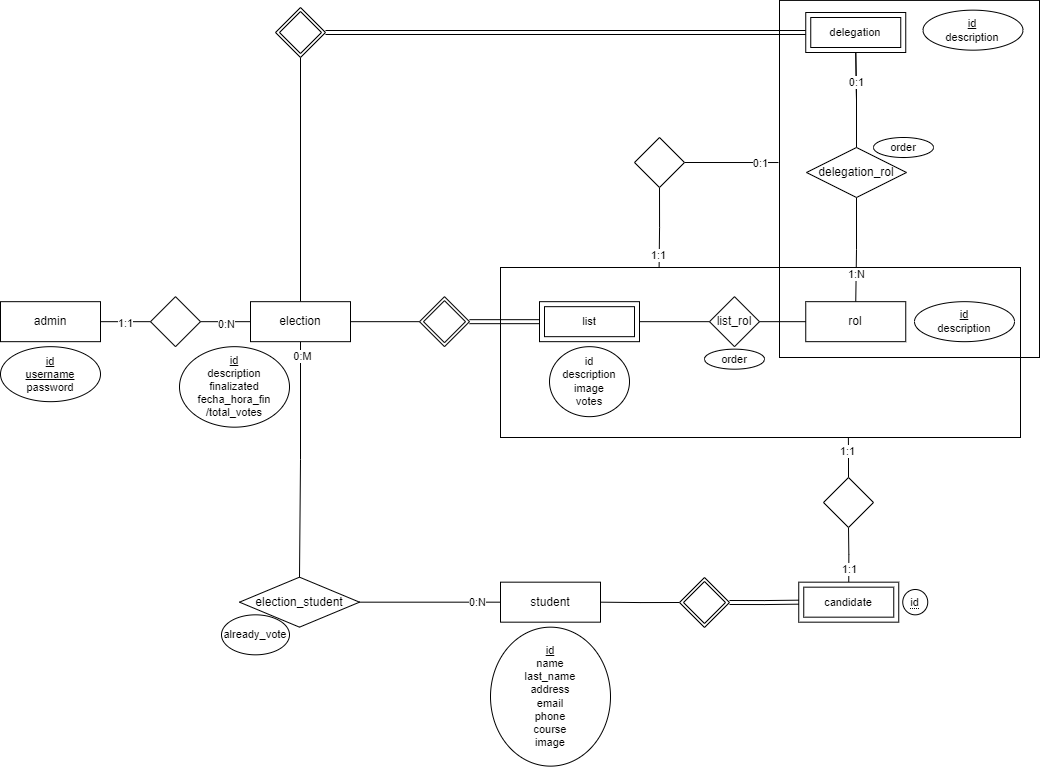
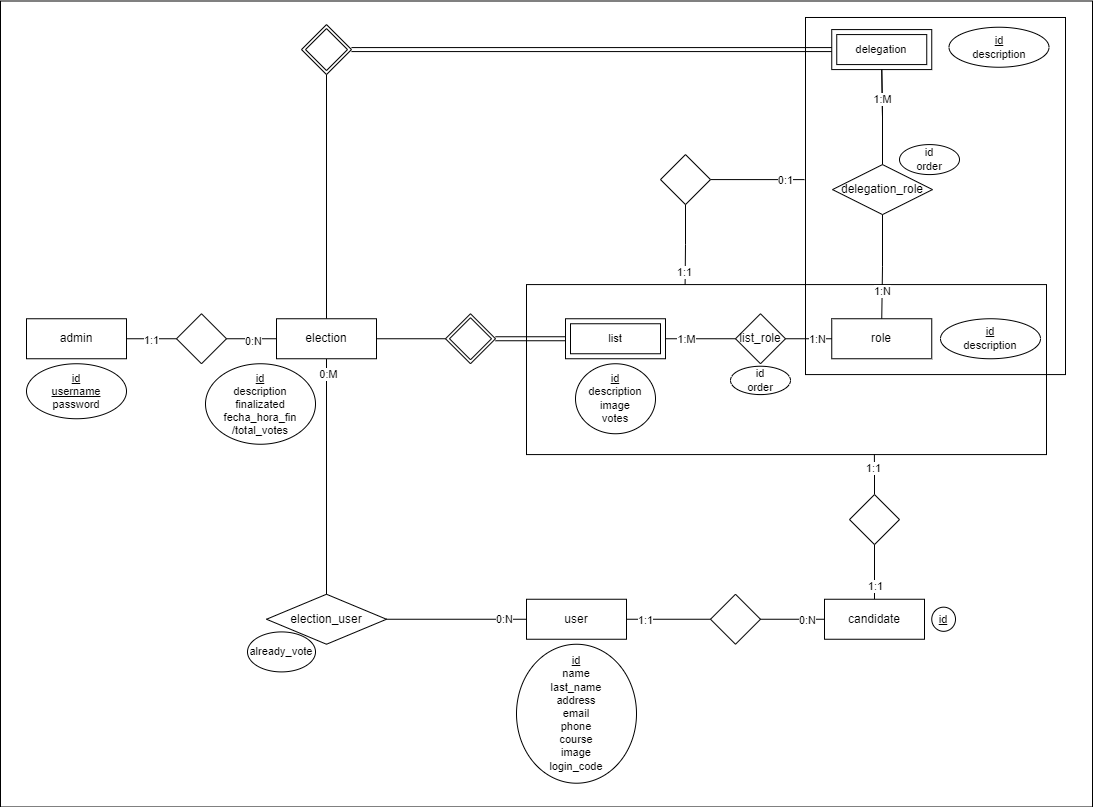
Actualizacion de DER

diff --git a/proposal.md b/proposal.md
@@ -35,31 +35,33 @@ Sistema de voto estudiantil electrónico que cuenta con autenticación segura, p
 
 #### **CRUD Simple**
 
-+ CRUD Admins
-+ CRUD Elections
-+ CRUD Students
-+ CRUD Candidates
++ CRUD admin
++ CRUD election
++ CRUD user
++ CRUD candidate
++ CRUD role
 
 #### **CRUD Dependiente**
 
-+ CRUD Vote {depende de} CRUD ElectoralTable, {depende de} CRUD Lists
-+ CRUD Delegation {depende de} CRUD Elections
-+ CRUD ElectoralTables {depende de} CRUD Elections
-+ CRUD Lists {depende de} CRUD Elections, {depende de} CRUD Students
++ CRUD list { depende de } CRUD election
++ CRUD delegation { depende de } CRUD election
++ CRUD list_role { depende de } CRUD list, { depende de } CRUD role
++ CRUD delegation_role { depende de } CRUD delegation, { depende de } CRUD role
++ CRUD election_user { depende de } CRUD election, { depende de } CRUD user
 
 #### **Listado + detalle**
 
-1. Listado de alumnos filtrado por mesa electoral => detalle CRUD Students
-2. Listado de listas filtrado por id de lista => detalle CRUD Lists
-3. Listado de recuento generales de votos, de cada lista más los votos en blanco => detalle CRUD Vote
+1. Listado de alumnos filtrado por curso => detalle CRUD user
+2. Listado de listas filtrado por eleccion => detalle CRUD list y CRUD election
+3. Listado de recuento generales de votos, de cada lista más los votos en blanco => detalle CRUD election, CRUD list y CRUD election_user
 
 #### **CUU/Epic**
 
 1. Registrar el padrón electoral.
-2. Registrar la eleccion con sus listas y mesas electorales.
+2. Registrar la eleccion con sus listas y candidatos.
 3. Emitir un voto, contando con integridad y seguridad del mismo.
 4. Registrar resultados finales de la votación.
-5. Actualizar el comité con los nuevos miembros que lo conforman.
+5. Actualizar la delegacion con los nuevos miembros que lo conforman.
 
 ### Reglas de Negocio
 
